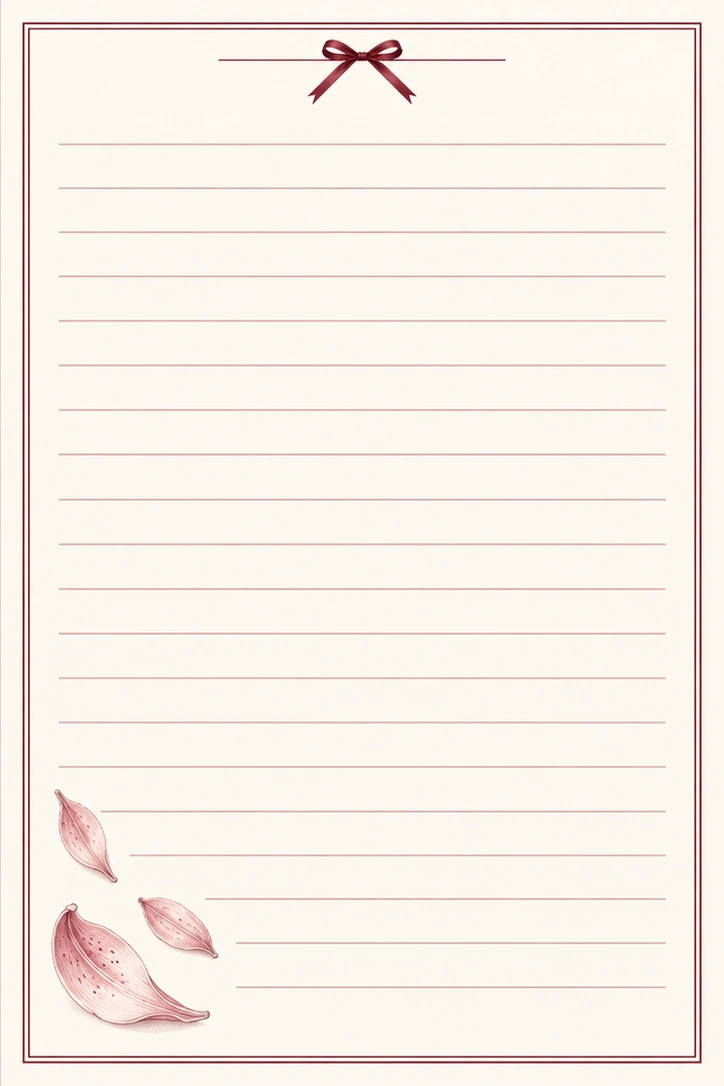
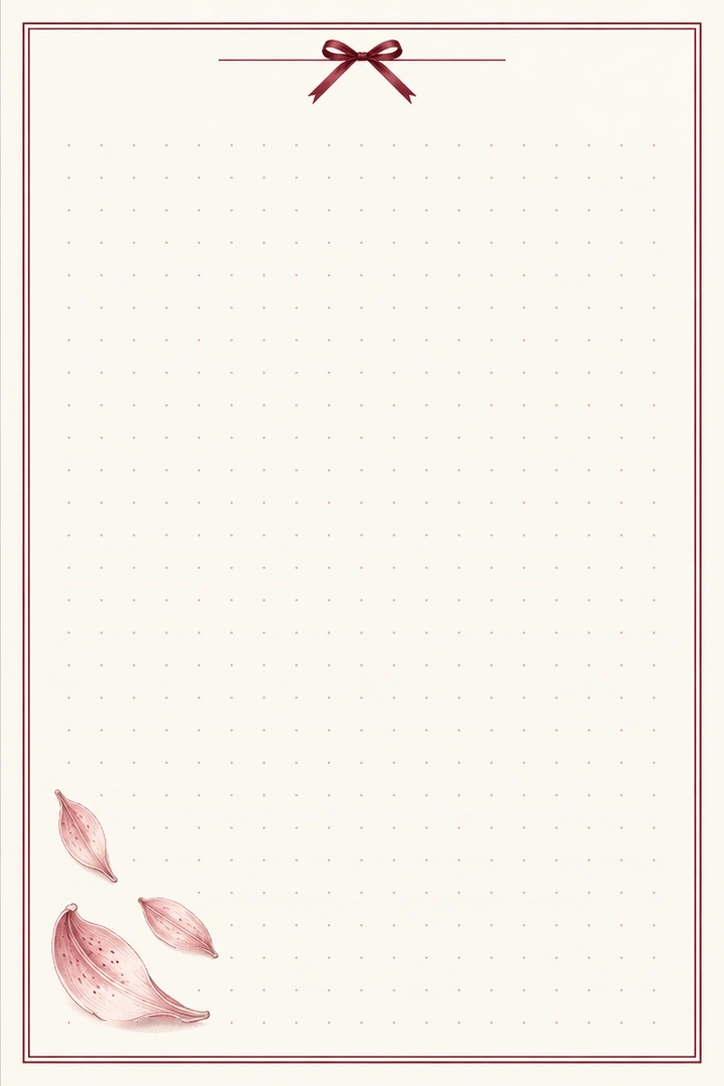
Sticker book: no stray shadow beside the cover while it opens, eased page turns, dotted paper in every notebook; calendar: a sticker paints its day in the sticker's colour, 'Güne not al' at the top of the day page, recently used stickers one tap away (preview, not released)

diff --git a/js/takvim-ui.js b/js/takvim-ui.js
@@ -2,7 +2,8 @@
    özel günler ve sınavlar, o günkü çalışma, sticker ve gün rengi, deneme planı, o günün planı (Planlarım ile aynı liste)
    ve geçmiş bir güne çalışma ekleme.
    Notlar D().dayNotes: {id, date: YYYY-AA-GG, text, emoji, yearly, remind, created, updated}.
-   Süsler D().dayDecor: {id: 'dc-' + tarih, date, stickers: [en çok 3], tint, updated}.
+   Süsler D().dayDecor: {id: 'dc-' + tarih, date, stickers: [en çok 3], tint, oto, updated}. Sticker yapıştırılınca gün onun rengine
+   boyanır (oto: true); rengi elle seçtiysen (oto: false) dokunulmaz.
    Planlanan denemeler D().denemePlan: Deneme sekmesinde de görünür; sonuç girilince gerçek denemeye dönüşüp analize katılır.
    Not günü gelince sayfanın üstünde yazar, Luna da bir kez söyler; "bir gün önce haber ver" açıksa (ve denemelerde her zaman) bir gün önceden de. */
 
@@ -76,6 +77,25 @@ const TakvimUI = (() => {
     if (!x) { x = { id: 'dc-' + k, date: k, stickers: [], tint: '', updated: 0 }; decorList().push(x); }
     return x;
   }
+  // gün, üstündeki ilk renkli stickerın rengine boyanır; rengi sen seçtiysen (ya da bu özellikten önce seçtiysen) o kalır
+  function autoTint(d) {
+    if (d.oto === false || (d.oto !== true && d.tint)) return;
+    const t = (SD() && d.stickers.map((x) => SD().tint(x)).find(Boolean)) || '';
+    d.tint = t;
+    if (t) d.oto = true; else delete d.oto;
+  }
+  // görünen gün rengi: kayıtlı renk; yoksa (elle "Renksiz" seçilmediyse) ilk renkli stickerın rengi
+  const tintOf = (d) => (!d ? '' : d.tint || (d.oto !== false && SD() && d.stickers.map((x) => SD().tint(x)).find(Boolean)) || '');
+  // son yapıştırdığın stickerlar (en yeni önce): defteri açmadan tek dokunuşla yapıştırmak için
+  function recentStickers(k) {
+    const on = new Set(decorOn(k) ? decorOn(k).stickers : []), out = [];
+    if (!SD()) return out;
+    for (const x of decorList().slice().sort((a, b) => (b.updated || 0) - (a.updated || 0))) {
+      for (const st of x.stickers) if (SD().isImg(st) && SD().known(st) && !on.has(st) && !out.includes(st)) out.push(st);
+      if (out.length >= 6) break;
+    }
+    return out.slice(0, 6);
+  }
   const deneme = () => !programMode() && !!window.Deneme && !!window.DenemeUI;
   // Üniversite modu (ileride): burası vize / final / proje olacak; şimdilik deneme yalnızca YKS modunda (bkz. NOTLAR.md)
   const plansOn = (k) => (deneme() ? (D().denemePlan || []).filter((x) => x && x.date === k) : []);
@@ -103,7 +123,7 @@ const TakvimUI = (() => {
     for (let d = 1; d <= days; d++) {
       const k = key(new Date(y, m, d, 12)), dow = (pad + d - 1) % 7, marks = marksOf(k), dc = decorOn(k);
       const lv = k <= today ? level(mins[k] || 0) : '', plan = planOn(k).length, st = dc ? dc.stickers : [];
-      const cls = ['tk-cell', k === today ? 'today' : '', k === sel ? 'sel' : '', dow >= 5 ? 'we' : '', dc && dc.tint ? 't-' + dc.tint : ''].join(' ');
+      const tn = tintOf(dc), cls = ['tk-cell', k === today ? 'today' : '', k === sel ? 'sel' : '', dow >= 5 ? 'we' : '', tn ? 't-' + tn : ''].join(' ');
       const label = [longDate(k), ...marks.map((x) => x.text), mins[k] ? U.fmtMin(mins[k]) + ' çalışma' : '', plan ? plan + ' plan maddesi' : ''].filter(Boolean).join(', ');
       html += `<button type="button" class="${cls}" data-day="${k}" aria-label="${esc(label)}" aria-pressed="${k === sel}">
         ${st[0] ? stHtml(st[0], 'tk-st') : ''}${st[1] ? stHtml(st[1], 'tk-st s2') : ''}
@@ -152,13 +172,15 @@ const TakvimUI = (() => {
       ? `<li class="tk-pl moved"><span>↪</span><span class="tk-pl-t">${esc(it.title)}</span><small>taşındı</small></li>`
       : `<li class="tk-pl${it.done ? ' done' : ''}"><label><input type="checkbox" data-pdone="${esc(it.id)}" ${it.done ? 'checked' : ''}><span class="tk-pl-t">${esc(it.title)}</span></label>
           <button type="button" class="tk-del" data-pdel="${esc(it.id)}" aria-label="${esc(it.title)} maddesini sil">✕</button></li>`).join('');
-    const editing = !!form.id, dc = decorOn(k), stuck = dc ? dc.stickers : [], tint = dc ? dc.tint : '';
+    const editing = !!form.id, dc = decorOn(k), stuck = dc ? dc.stickers : [], tint = tintOf(dc), recent = recentStickers(k);
     const decorHtml = `<section class="tk-sec tk-decor" aria-label="Sticker ve gün rengi">
         <h3>🌈 Sticker ve renk ${stuck.length ? `<small>${stuck.length}/3</small>` : ''}</h3>
         <div class="tk-stuck">${[0, 1, 2].map((i) => stuck[i]
           ? `<button type="button" data-unstick="${i}" aria-label="${esc(stName(stuck[i]))} stickerını kaldır">${stHtml(stuck[i], 'tk-stuck-i')}<i aria-hidden="true">✕</i></button>`
           : `<button type="button" class="empty" data-book aria-label="Boş yer: sticker defterini aç"><span aria-hidden="true">＋</span></button>`).join('')}
           ${SD() ? `<button type="button" class="tk-book-btn" data-book aria-label="Sticker defterini aç"><span class="tk-book-ic" aria-hidden="true"></span><small>Sticker defteri</small></button>` : ''}</div>
+        ${recent.length && stuck.length < 3 ? `<div class="tk-son"><small>Son kullandıkların</small><div>${recent.map((x) => `<button type="button" data-stick="${esc(x)}" aria-label="Bu stickerı güne yapıştır">${stHtml(x, 'tk-son-i')}</button>`).join('')}</div></div>` : ''}
+        ${stuck.length ? '' : '<p class="tk-hint">Bir sticker yapıştır, gün onun rengine boyansın ✨</p>'}
         <div class="tk-tints" role="radiogroup" aria-label="Gün rengi">${TINTS.map(([v, n]) => `<button type="button" role="radio" class="tint-${v || 'yok'}" data-tint="${v}" aria-checked="${v === tint}" aria-label="${n}" title="${n}"></button>`).join('')}</div>
       </section>`;
     const pl = plansOn(k), dn = doneOn(k);
@@ -176,7 +198,18 @@ const TakvimUI = (() => {
         </form>
       </section>`;
     root.innerHTML = `<div class="tk-d-head"><h2>${longDate(k)}</h2><span>${rel(k)}</span></div>
-      ${rows ? `<ul class="tk-evs">${rows}</ul>` : '<p class="tk-empty">Bu günün henüz notu yok. Aşağıdan ekleyebilirsin 🌸</p>'}
+      ${rows ? `<ul class="tk-evs">${rows}</ul>` : ''}
+      <form class="tk-sec tk-note-form${editing ? ' editing' : ''}" data-form="note" autocomplete="off">
+        <h3>${editing ? '✎ Notu düzenle' : '📝 Güne not al'}</h3>
+        <div class="tk-add-row">
+          <input id="tk-text" maxlength="60" placeholder="Doğum günüm, sınav, buluşma…" value="${esc(form.text)}" aria-label="Not">
+          <button class="btn primary" type="submit">${editing ? 'Kaydet' : 'Ekle'}</button>
+        </div>
+        <div class="tk-emojis" role="radiogroup" aria-label="Not simgesi">${EMOJI.map((e) => `<button type="button" role="radio" data-emoji="${e}" aria-checked="${e === form.emoji}">${e}</button>`).join('')}</div>
+        <label class="tk-check"><input type="checkbox" data-opt="yearly" ${form.yearly ? 'checked' : ''}> Her yıl tekrarla (doğum günü gibi)</label>
+        <label class="tk-check"><input type="checkbox" data-opt="remind" ${form.remind ? 'checked' : ''}> Bir gün önce Luna haber versin</label>
+        ${editing ? '<button type="button" class="tk-back" data-cancel>Vazgeç</button>' : ''}
+      </form>
       ${facts.length ? `<ul class="tk-facts">${facts.map((f) => `<li>${f}</li>`).join('')}</ul>` : ''}
       ${decorHtml}
       ${dnHtml}
@@ -188,17 +221,6 @@ const TakvimUI = (() => {
           <button class="btn soft" type="submit">Ekle</button>
         </form>
       </section>
-      <form class="tk-sec tk-note-form${editing ? ' editing' : ''}" data-form="note" autocomplete="off">
-        <h3>${editing ? '✎ Notu düzenle' : '💌 Bu güne not ekle'}</h3>
-        <div class="tk-add-row">
-          <input id="tk-text" maxlength="60" placeholder="Doğum günüm, sınav, buluşma…" value="${esc(form.text)}" aria-label="Not">
-          <button class="btn primary" type="submit">${editing ? 'Kaydet' : 'Ekle'}</button>
-        </div>
-        <div class="tk-emojis" role="radiogroup" aria-label="Not simgesi">${EMOJI.map((e) => `<button type="button" role="radio" data-emoji="${e}" aria-checked="${e === form.emoji}">${e}</button>`).join('')}</div>
-        <label class="tk-check"><input type="checkbox" data-opt="yearly" ${form.yearly ? 'checked' : ''}> Her yıl tekrarla (doğum günü gibi)</label>
-        <label class="tk-check"><input type="checkbox" data-opt="remind" ${form.remind ? 'checked' : ''}> Bir gün önce Luna haber versin</label>
-        ${editing ? '<button type="button" class="tk-back" data-cancel>Vazgeç</button>' : ''}
-      </form>
       ${k <= today ? '<button type="button" class="btn soft wide" data-session>＋ Bu güne çalışma ekle</button>' : ''}`;
   }
 
@@ -229,11 +251,17 @@ const TakvimUI = (() => {
     renderSoon(today);
   }
   function pick(k, scroll) {
-    if (sel !== k) form = blank();
+    const changed = sel !== k;
+    if (changed) form = blank();
     sel = k;
     view = new Date(at(k).getFullYear(), at(k).getMonth(), 1, 12);
     render();
     const day = $('#takvim-gun');
+    // yeni günün sayfası sağdan süzülerek gelir (hareket azaltılmışsa hemen)
+    if (changed && day && !matchMedia('(prefers-reduced-motion: reduce)').matches) {
+      day.classList.remove('gel'); void day.offsetWidth; day.classList.add('gel');
+      day.addEventListener('animationend', () => day.classList.remove('gel'), { once: true });
+    }
     if (scroll && day && day.getBoundingClientRect().top > window.innerHeight - 140) day.scrollIntoView({ behavior: matchMedia('(prefers-reduced-motion: reduce)').matches ? 'auto' : 'smooth', block: 'start' });
   }
 
@@ -287,9 +315,9 @@ const TakvimUI = (() => {
       if (stick) { stickOn(stick.dataset.stick); return; }
       if (t.closest('[data-book]')) { openBook(); return; }
       const un = t.closest('[data-unstick]');
-      if (un) { const x = decor(sel); x.stickers.splice(+un.dataset.unstick, 1); x.updated = Date.now(); app.save(); render(); return; }
+      if (un) { const x = decor(sel); x.stickers.splice(+un.dataset.unstick, 1); autoTint(x); x.updated = Date.now(); app.save(); render(); return; }
       const tn = t.closest('[data-tint]');
-      if (tn) { const x = decor(sel); x.tint = tn.dataset.tint; x.updated = Date.now(); app.save(); render(); return; }
+      if (tn) { const x = decor(sel); x.tint = tn.dataset.tint; x.oto = false; x.updated = Date.now(); app.save(); render(); return; }
       // deneme planı
       const dt = t.closest('[data-dtype]');
       if (dt) { const i = $('#tk-dname'); if (i) dnDraft = i.value; dnType = dt.dataset.dtype; render(); return; }
@@ -364,7 +392,7 @@ const TakvimUI = (() => {
   function stickOn(x) {
     const d = decor(sel);
     if (d.stickers.length >= 3) { app.toast('🌈', 'Bir güne en fazla 3 sticker', 'Kaldırmak için üstteki stickera dokun'); return false; }
-    d.stickers.push(x); d.updated = Date.now();
+    d.stickers.push(x); autoTint(d); d.updated = Date.now();
     app.save(); render(); popSticker();
     return true;
   }
@@ -450,7 +478,7 @@ const TakvimUI = (() => {
       const b = t.closest('[data-bk]');
       if (b) { if (b.dataset.bk === 'close') { app.closeModal(); book = null; } else turn(b.dataset.bk === 'next' ? 1 : -1); return; }
       const un = t.closest('[data-bk-un]');
-      if (un) { const d = decor(sel); d.stickers.splice(+un.dataset.bkUn, 1); d.updated = Date.now(); app.save(); render(); bookSync(); return; }
+      if (un) { const d = decor(sel); d.stickers.splice(+un.dataset.bkUn, 1); autoTint(d); d.updated = Date.now(); app.save(); render(); bookSync(); return; }
       const pk = t.closest('[data-pick]');
       if (pk) {
         if (swiped) { swiped = false; return; } // kaydırma dokunuş sayılmasın
@@ -468,14 +496,14 @@ const TakvimUI = (() => {
   // Sayfalar yalnızca alttaki oklarla (bilgisayarda klavye oklarıyla da) çevrilir: sürükleme, kaydırma ve köşe kıvırma kapalı.
   // Her zaman iki sayfa yan yana; dik telefonda sayfa daralınca stickerlar küçülmesin diye sayfa başına 2 × 3 dizilir.
   // Kapak ve kâğıt Hazal'ın tasarımları (assets/defter/<ad>/). Kütüphane yüklenemezse (ilk açılış internetsiz) basit defter açılır.
-  const FLIP_SRC = 'vendor/page-flip-2.0.7/page-flip.browser.js', FLIP_MS = 780, DAR = 230;
+  const FLIP_SRC = 'vendor/page-flip-2.0.7/page-flip.browser.js', FLIP_MS = 900, DAR = 230;
   // alan: stickerların süslere binmediği bölge (yüzde: üst, sağ, alt, sol); yazi: başlık rengi; sahne, isik, vurgu: Lilium renkleri
   const DEFTERLER = {
     'leylak-inci': { ad: 'İnci Düşü', kagit: 'Noktalı', yazi: '#7a67a3', alan: [11, 8, 20, 8], sahne: '#ddd9e5', isik: '#f6efff', vurgu: '#9d8daf' },
-    'siyah-yildizli': { ad: 'Ay Işığı', kagit: 'Çizgili', yazi: '#4a4658', alan: [10, 8, 21, 8], sahne: '#d6d8d2', isik: '#edf0df', vurgu: '#a9ad9b' },
-    'pembe-kurdele': { ad: 'Gül Kurusu', kagit: 'Çizgili', yazi: '#8e2e3e', alan: [10, 9, 26, 9], sahne: '#e5d6d1', isik: '#ffede4', vurgu: '#9d5e66' },
-    'krem-botanik': { ad: 'Saklı Bahçe', kagit: 'Çizgili', yazi: '#6c7a4c', alan: [15, 10, 14, 10], sahne: '#dde0d2', isik: '#f7f0d8', vurgu: '#8b997b' },
-    'mavi-kelebek': { ad: 'Mavi Rüya', kagit: 'Kareli', yazi: '#46699a', alan: [11, 9, 13, 9], sahne: '#d7e2e8', isik: '#effaff', vurgu: '#769aac' },
+    'siyah-yildizli': { ad: 'Ay Işığı', kagit: 'Noktalı', yazi: '#4a4658', alan: [10, 8, 25, 8], sahne: '#d6d8d2', isik: '#edf0df', vurgu: '#a9ad9b' },
+    'pembe-kurdele': { ad: 'Gül Kurusu', kagit: 'Noktalı', yazi: '#8e2e3e', alan: [10, 9, 26, 9], sahne: '#e5d6d1', isik: '#ffede4', vurgu: '#9d5e66' },
+    'krem-botanik': { ad: 'Saklı Bahçe', kagit: 'Noktalı', yazi: '#6c7a4c', alan: [15, 10, 14, 10], sahne: '#dde0d2', isik: '#f7f0d8', vurgu: '#8b997b' },
+    'mavi-kelebek': { ad: 'Mavi Rüya', kagit: 'Noktalı', yazi: '#46699a', alan: [11, 9, 13, 9], sahne: '#d7e2e8', isik: '#effaff', vurgu: '#769aac' },
   };
   // seçilmediyse sitenin temasına uyan defter: Lavanta → İnci Düşü, Gece ve Zambak → Ay Işığı
   function defterId() {
@@ -539,6 +567,30 @@ const TakvimUI = (() => {
     return p ? p.items[0] : 0;
   }
   const abs = (u) => new URL(u, location.href).href; // css değişkenindeki url() stil dosyasına göre çözülmesin
+  // css'teki cubic-bezier gibi: x geçen zaman, sonuç alınan yol
+  function bezier(x1, y1, x2, y2) {
+    const f = (a, b, t) => 3 * a * t * (1 - t) * (1 - t) + 3 * b * t * t * (1 - t) + t * t * t;
+    return (x) => {
+      let lo = 0, hi = 1, t = x;
+      for (let i = 0; i < 24; i++) { const v = f(x1, x2, t); if (Math.abs(v - x) < 1e-4) break; if (v < x) lo = t; else hi = t; t = (lo + hi) / 2; }
+      return f(y1, y2, t);
+    };
+  }
+  const SAYFA_EGRI = bezier(0.4, 0.1, 0.2, 1);
+  // Kütüphane sayfayı baştan sona aynı hızla çevirip birden durdurur. Kareleri bu eğriye göre yeniden sıralarız:
+  // sayfa yumuşak kalkar, ortada hızlanır, yere yavaşça iner (süre ve kare sayısı aynı kalır).
+  function smooth(pf) {
+    const r = pf.getRender();
+    if (!r || typeof r.startAnimation !== 'function') return;
+    const start = r.startAnimation.bind(r);
+    r.startAnimation = (frames, duration, done) => {
+      const n = frames.length;
+      if (n < 3 || calm()) return start(frames, duration, done);
+      const eased = [];
+      for (let k = 0; k < n; k++) eased.push(frames[Math.round(SAYFA_EGRI(k / (n - 1)) * (n - 1))]);
+      return start(eased, duration, done);
+    };
+  }
   function buildFlip(anchor) {
     const id = defterId(), d = DEFTERLER[id];
     stopSync();
@@ -572,6 +624,7 @@ const TakvimUI = (() => {
       // sayfa itilmez, sürüklenmez, köşesi kıvrılmaz: yalnızca oklar
       useMouseEvents: false, showPageCorners: false, disableFlipByClick: true, mobileScrollSupport: false,
     });
+    smooth(flip);
     flip.loadFromHTML(leaves);
     flip.on('flip', (e) => place(e.data));
     flip.on('changeState', (e) => { if (e.data === 'read') place(flip.getCurrentPageIndex()); });
@@ -582,6 +635,8 @@ const TakvimUI = (() => {
     stopSync();
     if (!scene || !flip) return;
     const n = flip.getPageCount(), kitap = scene.querySelector('.df-kitap');
+    const el = kitap.querySelector('.df-flip');
+    if (el) el.classList.remove('kapak-on', 'kapak-arka');
     if (instant) kitap.style.transition = 'none';
     kitap.style.transform = '';
     kitap.dataset.position = i <= 0 ? 'front' : i >= n - 1 ? 'back' : 'open';
@@ -619,6 +674,8 @@ const TakvimUI = (() => {
     const i = flip.getCurrentPageIndex(), n = flip.getPageCount();
     if (dir > 0 ? i >= n - 1 : i <= 0) return;
     syncSide = dir > 0 ? (i === 0 ? 'front' : i >= n - 3 ? 'back' : '') : (i >= n - 1 ? 'back' : i <= 2 ? 'front' : '');
+    // kapak dönerken kütüphane gölgeyi defterin boş tarafına da çizer (arkadan gri bir şey çıkıyor gibi); o gölge gizlenir
+    if (syncSide) scene.querySelector('.df-flip').classList.add(syncSide === 'back' ? 'kapak-arka' : 'kapak-on');
     if (syncSide && !calm()) { stopSync(); syncAt = performance.now(); syncRaf = requestAnimationFrame(syncShift); }
     if (dir > 0) flip.flipNext('bottom'); else flip.flipPrev('bottom');
   }
@@ -718,7 +775,7 @@ const TakvimUI = (() => {
         return;
       }
       const un = t.closest('[data-bk-un]');
-      if (un) { const d = decor(sel); d.stickers.splice(+un.dataset.bkUn, 1); d.updated = Date.now(); app.save(); render(); sceneSync(); return; }
+      if (un) { const d = decor(sel); d.stickers.splice(+un.dataset.bkUn, 1); autoTint(d); d.updated = Date.now(); app.save(); render(); sceneSync(); return; }
       const pk = t.closest('[data-pick]');
       if (pk && stickOn(pk.dataset.pick)) {
         sceneSync();

diff --git a/js/stickers.js b/js/stickers.js
@@ -1,18 +1,19 @@
 /* Sticker defteri: sayfa sayfa stickerlar. Benzer stickerlar aynı bölümde; bölüm 12'den uzunsa birkaç sayfaya bölünür.
    Görsel stickerlar assets/stickers/<paket>/<ad>.webp (saydam, beyaz kesim kenarlı); güne 'i:<paket>/<ad>' diye yazılır
-   (eski emoji stickerlar da olduğu gibi gösterilir). Yeni paket: scripts/sticker-kes.py ile kes, aşağıya bölüm olarak ekle (bkz. NOTLAR.md). */
+   (eski emoji stickerlar da olduğu gibi gösterilir). Yeni paket: scripts/sticker-kes.py ile kes, aşağıya bölüm olarak ekle (bkz. NOTLAR.md).
+   renk: her stickerın baskın rengi, sırayla bir harf (p pembe, s şeftali, l limon, n nane, g gök mavisi, v lila); yapıştırılınca gün bu renge boyanır. */
 
 const StickerDefter = (() => {
   const BOLUMLER = [
-    { id: 'retro', title: 'Retro ve mektuplar', icon: '💌', pack: 'p1', items: ['s01-01', 's01-02', 's01-03', 's01-04', 's01-05', 's01-06', 's01-07', 's01-08', 's01-09', 's01-10', 's01-11', 's01-12', 's01-13', 's01-14', 's01-15', 's01-16', 's01-17', 's01-18', 's01-19', 's01-20', 's01-21', 's08-01', 's08-03', 's08-05', 's08-09', 's08-24', 's07-01', 's07-04', 's07-12'] },
-    { id: 'kedi', title: 'Kediler', icon: '🐱', pack: 'p1', items: ['s02-01', 's02-02', 's02-03', 's02-04', 's02-05', 's02-06', 's02-07', 's02-08', 's02-09', 's03-36', 's03-22', 's05-28', 's07-08', 's08-32', 's08-02'] },
-    { id: 'altin', title: 'Altın gökyüzü', icon: '✨', pack: 'p1', items: ['s04-01', 's04-02', 's04-03', 's04-04', 's04-05', 's04-06', 's04-07', 's04-08', 's04-09', 's04-10', 's04-11', 's04-15', 's04-16', 's04-17', 's04-18', 's04-19', 's04-20', 's04-21', 's04-22', 's04-24', 's04-25', 's04-26', 's04-27', 's04-29', 's04-30', 's04-31', 's04-32'] },
-    { id: 'deniz', title: 'Deniz', icon: '🌊', pack: 'p1', items: ['s06-01', 's06-02', 's06-03', 's06-04', 's06-06', 's06-07', 's06-08', 's06-09', 's06-10', 's06-11', 's06-12', 's06-13', 's06-14', 's06-15', 's06-16', 's06-17', 's06-18', 's06-19', 's06-20', 's06-21', 's06-22', 's06-23', 's06-24', 's06-25', 's06-26', 's06-27', 's06-28', 's06-29', 's06-30', 's06-31', 's06-34', 's06-36', 's06-37', 's06-38', 's06-41', 's06-42'] },
-    { id: 'yaz', title: 'Yaz ve limon', icon: '🍋', pack: 'p1', items: ['s09-05', 's09-12', 's09-13', 's09-18', 's09-25', 's09-43', 's09-50', 's09-53', 's09-51', 's09-19', 's09-09', 's09-17', 's09-24', 's09-26', 's09-49', 's09-58', 's09-33', 's09-34', 's09-35', 's09-52', 's09-38', 's09-02', 's09-11', 's09-55', 's09-10', 's09-03', 's09-14', 's09-15', 's09-28', 's09-29', 's09-45', 's09-57', 's09-41', 's09-56', 's09-06', 's09-07', 's09-22'] },
-    { id: 'tatli', title: 'Tatlılar ve yiyecekler', icon: '🧁', pack: 'p1', items: ['s08-27', 's08-06', 's08-30', 's08-10', 's08-12', 's08-11', 's08-17', 's08-31', 's08-20', 's08-21', 's08-33', 's08-13', 's08-22', 's08-25', 's08-04', 's08-23', 's08-16', 's08-26', 's07-09', 's07-11', 's07-07', 's07-13', 's07-15', 's03-03'] },
-    { id: 'cicek', title: 'Çiçekler ve bitkiler', icon: '🌷', pack: 'p1', items: ['s07-10', 's07-06', 's07-14', 's07-02', 's05-11', 's05-14', 's05-26', 's05-20', 's05-21', 's03-24', 's03-32', 's03-17', 's03-27', 's03-28', 's03-29', 's03-15', 's03-38'] },
-    { id: 'cay', title: 'Çay saati', icon: '🫖', pack: 'p1', items: ['s05-03', 's05-19', 's05-04', 's05-08', 's05-06', 's05-18', 's05-24', 's05-32', 's05-31'] },
-    { id: 'ev', title: 'Sıcacık ev', icon: '🏡', pack: 'p1', items: ['s03-12', 's03-01', 's03-02', 's03-10', 's03-14', 's03-09', 's03-25', 's03-04', 's03-11', 's03-31', 's03-21', 's03-20', 's03-18', 's03-33', 's03-34', 's03-23', 's03-35', 's03-16', 's03-13', 's03-37', 's03-39', 's07-05'] },
+    { id: 'retro', title: 'Retro ve mektuplar', icon: '💌', pack: 'p1', items: ['s01-01', 's01-02', 's01-03', 's01-04', 's01-05', 's01-06', 's01-07', 's01-08', 's01-09', 's01-10', 's01-11', 's01-12', 's01-13', 's01-14', 's01-15', 's01-16', 's01-17', 's01-18', 's01-19', 's01-20', 's01-21', 's08-01', 's08-03', 's08-05', 's08-09', 's08-24', 's07-01', 's07-04', 's07-12'], renk: 'pngppsnnpsspgpvnsspspsllsssss' },
+    { id: 'kedi', title: 'Kediler', icon: '🐱', pack: 'p1', items: ['s02-01', 's02-02', 's02-03', 's02-04', 's02-05', 's02-06', 's02-07', 's02-08', 's02-09', 's03-36', 's03-22', 's05-28', 's07-08', 's08-32', 's08-02'], renk: 'glpsgpplnppsnsg' },
+    { id: 'altin', title: 'Altın gökyüzü', icon: '✨', pack: 'p1', items: ['s04-01', 's04-02', 's04-03', 's04-04', 's04-05', 's04-06', 's04-07', 's04-08', 's04-09', 's04-10', 's04-11', 's04-15', 's04-16', 's04-17', 's04-18', 's04-19', 's04-20', 's04-21', 's04-22', 's04-24', 's04-25', 's04-26', 's04-27', 's04-29', 's04-30', 's04-31', 's04-32'], renk: 'lsssgpggsssllssssssssssslls' },
+    { id: 'deniz', title: 'Deniz', icon: '🌊', pack: 'p1', items: ['s06-01', 's06-02', 's06-03', 's06-04', 's06-06', 's06-07', 's06-08', 's06-09', 's06-10', 's06-11', 's06-12', 's06-13', 's06-14', 's06-15', 's06-16', 's06-17', 's06-18', 's06-19', 's06-20', 's06-21', 's06-22', 's06-23', 's06-24', 's06-25', 's06-26', 's06-27', 's06-28', 's06-29', 's06-30', 's06-31', 's06-34', 's06-36', 's06-37', 's06-38', 's06-41', 's06-42'], renk: 'ssgggsgsggsgssgpgssglsggsgsssgsgssgg' },
+    { id: 'yaz', title: 'Yaz ve limon', icon: '🍋', pack: 'p1', items: ['s09-05', 's09-12', 's09-13', 's09-18', 's09-25', 's09-43', 's09-50', 's09-53', 's09-51', 's09-19', 's09-09', 's09-17', 's09-24', 's09-26', 's09-49', 's09-58', 's09-33', 's09-34', 's09-35', 's09-52', 's09-38', 's09-02', 's09-11', 's09-55', 's09-10', 's09-03', 's09-14', 's09-15', 's09-28', 's09-29', 's09-45', 's09-57', 's09-41', 's09-56', 's09-06', 's09-07', 's09-22'], renk: 'llllllllllggsglgggggggggggglgggglglll' },
+    { id: 'tatli', title: 'Tatlılar ve yiyecekler', icon: '🧁', pack: 'p1', items: ['s08-27', 's08-06', 's08-30', 's08-10', 's08-12', 's08-11', 's08-17', 's08-31', 's08-20', 's08-21', 's08-33', 's08-13', 's08-22', 's08-25', 's08-04', 's08-23', 's08-16', 's08-26', 's07-09', 's07-11', 's07-07', 's07-13', 's07-15', 's03-03'], renk: 'pggpssssssspppsssnpsssll' },
+    { id: 'cicek', title: 'Çiçekler ve bitkiler', icon: '🌷', pack: 'p1', items: ['s07-10', 's07-06', 's07-14', 's07-02', 's05-11', 's05-14', 's05-26', 's05-20', 's05-21', 's03-24', 's03-32', 's03-17', 's03-27', 's03-28', 's03-29', 's03-15', 's03-38'], renk: 'nssspppggsslnnlnl' },
+    { id: 'cay', title: 'Çay saati', icon: '🫖', pack: 'p1', items: ['s05-03', 's05-19', 's05-04', 's05-08', 's05-06', 's05-18', 's05-24', 's05-32', 's05-31'], renk: 'llpssssnp' },
+    { id: 'ev', title: 'Sıcacık ev', icon: '🏡', pack: 'p1', items: ['s03-12', 's03-01', 's03-02', 's03-10', 's03-14', 's03-09', 's03-25', 's03-04', 's03-11', 's03-31', 's03-21', 's03-20', 's03-18', 's03-33', 's03-34', 's03-23', 's03-35', 's03-16', 's03-13', 's03-37', 's03-39', 's07-05'], renk: 'snsggpnlsssgllsspgspss' },
   ];
   const PER_PAGE = 12; // defter sayfası 3 × 4
   const isImg = (s) => typeof s === 'string' && s.startsWith('i:');
@@ -25,12 +26,14 @@ const StickerDefter = (() => {
     for (let i = 0; i < parts; i++) PAGES.push({ bolum: b.id, title: b.title, icon: b.icon, items: items.slice(i * PER_PAGE, (i + 1) * PER_PAGE), part: i + 1, parts });
   }
   const KNOWN = new Set(PAGES.flatMap((p) => p.items));
+  const RENK_AD = { p: 'pembe', s: 'seftali', l: 'limon', n: 'nane', g: 'gok', v: 'lila' }, RENK = new Map();
+  for (const b of BOLUMLER) all(b).forEach((x, i) => { const r = RENK_AD[(b.renk || '')[i]]; if (r) RENK.set(x, r); });
   // takvim hücresi ve defter için tek biçim (görsel tembel yüklenir; bozuk dosya sessizce gizlenir)
   function html(s, cls = '') {
     if (isImg(s)) return `<img class="${cls}" src="${src(s)}" alt="" loading="lazy" decoding="async" onerror="this.style.visibility='hidden'">`;
     return `<span class="${cls}">${U.esc(s)}</span>`;
   }
-  return { BOLUMLER, PAGES, isImg, src, html, known: (s) => KNOWN.has(s) };
+  return { BOLUMLER, PAGES, isImg, src, html, known: (s) => KNOWN.has(s), tint: (s) => RENK.get(s) || '' };
 })();
 
 if (typeof window !== 'undefined') { window.StickerDefter = StickerDefter; }

diff --git a/css/style.css b/css/style.css
@@ -2230,13 +2230,15 @@ body.siir-acik { overflow: hidden; }
 .tk-cell.today .tk-n { background: var(--pink); color: #fff; box-shadow: 0 0 0 3px var(--pink-soft), 0 0 12px rgba(242, 120, 159, .6); }
 .tk-cell.sel { box-shadow: inset 0 0 0 2px var(--pink); }
 .tk-cell.sel:not([class*=" t-"]) { background: var(--pink-soft); }
-/* gün rengi (yarı saydam: üç temada da yumuşak durur) */
-.tk-cell.t-pembe { background: rgba(255, 143, 190, .34); }
-.tk-cell.t-seftali { background: rgba(255, 168, 110, .34); }
-.tk-cell.t-limon { background: rgba(255, 214, 70, .36); }
-.tk-cell.t-nane { background: rgba(80, 210, 160, .30); }
-.tk-cell.t-gok { background: rgba(100, 175, 255, .30); }
-.tk-cell.t-lila { background: rgba(170, 130, 255, .32); }
+/* gün rengi (yarı saydam: üç temada da yumuşak durur). Stickerın durduğu sol alt köşeden yayılan bir ışık gibi boyanır. */
+.tk-cell.t-pembe { --tk-t: 255, 143, 190; }
+.tk-cell.t-seftali { --tk-t: 255, 168, 110; }
+.tk-cell.t-limon { --tk-t: 255, 214, 70; }
+.tk-cell.t-nane { --tk-t: 80, 210, 160; }
+.tk-cell.t-gok { --tk-t: 100, 175, 255; }
+.tk-cell.t-lila { --tk-t: 170, 130, 255; }
+.tk-cell[class*=" t-"] { background: radial-gradient(circle at 18% 88%, rgba(var(--tk-t), .62), rgba(var(--tk-t), .28) 75%); box-shadow: inset 0 0 0 1px rgba(var(--tk-t), .45); }
+.tk-cell.sel[class*=" t-"] { box-shadow: inset 0 0 0 2px var(--pink); }
 /* güne yapışan stickerlar */
 .tk-st { position: absolute; left: 1px; bottom: 0; font-size: 17px; line-height: 1; transform: rotate(-12deg); filter: drop-shadow(0 1px 1px rgba(30, 10, 40, .22)); pointer-events: none; }
 .tk-st.s2 { left: auto; bottom: auto; right: 0; top: 1px; font-size: 12px; transform: rotate(14deg); }
@@ -2326,9 +2328,27 @@ body.siir-acik { overflow: hidden; }
 .dp-text small { color: var(--muted); font-weight: 700; }
 @media (max-width: 360px) { .tk-cell { font-size: 12px; border-radius: 10px; } .tk-n { width: 21px; height: 21px; } .tk-month span { font-size: 22px; } .tk-st { font-size: 15px; } }
 @media (prefers-reduced-motion: reduce) { .tk-nav:active { transform: none; } .tk-st.pop { animation: none; } }
-/* görsel stickerlar (defterden) */
-img.tk-st { width: 21px; height: 21px; object-fit: contain; }
-img.tk-st.s2 { width: 15px; height: 15px; }
+/* görsel stickerlar (defterden): gün kutusunun boyuna göre büyür */
+img.tk-st { left: -2px; bottom: -2px; width: 54%; max-width: 62px; height: auto; aspect-ratio: 1; object-fit: contain; }
+img.tk-st.s2 { left: auto; bottom: auto; right: -2px; top: -2px; width: 36%; max-width: 40px; }
+/* "Güne not al": günün sayfasında en üstte, pembe kutu */
+.tk-note-form { background: var(--pink-soft); border-radius: 14px; padding: 12px; border-top: 0; }
+.takvim-gun.gel > * { animation: tk-gel .38s cubic-bezier(.2, .8, .3, 1) both; }
+.takvim-gun.gel > :nth-child(2) { animation-delay: .03s; }
+.takvim-gun.gel > :nth-child(3) { animation-delay: .06s; }
+.takvim-gun.gel > :nth-child(n+4) { animation-delay: .09s; }
+@keyframes tk-gel { from { opacity: 0; transform: translateX(18px); } to { opacity: 1; transform: none; } }
+/* son kullanılan stickerlar: tek dokunuşla güne */
+.tk-son { display: flex; align-items: center; gap: 10px; flex-wrap: wrap; }
+.tk-son > small { font-size: 12px; font-weight: 800; color: var(--muted); }
+.tk-son > div { display: flex; gap: 6px; flex-wrap: wrap; }
+.tk-son button { width: 40px; height: 40px; padding: 3px; border: 1px solid var(--line); border-radius: 12px; background: var(--surface-2); cursor: pointer; transition: transform .15s; }
+.tk-son button:nth-child(odd) { transform: rotate(-4deg); }
+.tk-son button:nth-child(even) { transform: rotate(3deg); }
+.tk-son button:active { transform: scale(.9); }
+.tk-son-i { display: block; width: 100%; height: 100%; object-fit: contain; }
+.tk-hint { margin: 0; font-size: 12px; font-weight: 700; color: var(--muted); }
+@media (prefers-reduced-motion: reduce) { .takvim-gun.gel > * { animation: none; } .tk-son button { transition: none; } }
 .tk-stuck-i { display: block; width: 36px; height: 36px; object-fit: contain; margin: auto; }
 span.tk-stuck-i { width: auto; height: auto; }
 .tk-stuck > button:nth-child(1) { transform: rotate(-6deg); }
@@ -2409,6 +2429,9 @@ span.bk-st { width: auto; height: auto; font-size: 26px; filter: none; }
 .df-flip { position: relative; filter: drop-shadow(0 25px 22px #22251c30); }
 .df-flip .stf__wrapper { height: 100%; }
 .df-flip .stf__block { perspective: 4200px; } /* sert kapak dönerken yakın kenarı fazla büyüyüp taşmasın */
+/* kapak dönerken defterin boş tarafına düşen gölge çizilmez: kapalı defterin yanında gri bir kutu belirmesin */
+.df-flip.kapak-on .stf__hardShadow[style*="rotateY(180deg)"], .df-flip.kapak-on .stf__hardInnerShadow[style*="rotateY(180deg)"],
+.df-flip.kapak-arka .stf__hardShadow:not([style*="rotateY(180deg)"]), .df-flip.kapak-arka .stf__hardInnerShadow:not([style*="rotateY(180deg)"]) { display: none !important; }
 /* sayfalar (Lilium): ince kenar, sırta doğru hafif gölge, dış kenarda ışık */
 .df-sayfa { overflow: hidden; background: #fcfaf6; border: 1px solid #b4b3a254; }
 .df-sayfa::after { content: ''; position: absolute; inset: 0; z-index: 3; pointer-events: none; background: linear-gradient(90deg, #1d231a15, transparent 7%, transparent 92%, #fff4); }

diff --git a/js/storage.js b/js/storage.js
@@ -136,7 +136,7 @@ const Store = (() => {
     files: [],      // depo: {id, src: drive|local, rid, name, mime, size, subjectId, kind, note, created}
     cards: [],      // bilgi kartları: {id, subjectId, front, back, box (1-5), due (YYYY-AA-GG), created}
     dayNotes: [],   // takvim notları: {id, date (YYYY-AA-GG), text, emoji, yearly, remind, created, updated}
-    dayDecor: [],   // takvim süsleri: {id: 'dc-YYYY-AA-GG', date, stickers: [en çok 3], tint (gün rengi), updated}
+    dayDecor: [],   // takvim süsleri: {id: 'dc-YYYY-AA-GG', date, stickers: [en çok 3], tint (gün rengi), oto (renk stickerdan mı), updated}
     denemePlan: [], // takvimden planlanan denemeler: {id, date, type: TYT|AYT|BRANS, name, created, updated}; sonuç girilince denemelere geçer
     plans: { day: {}, week: {}, month: {}, eod: {}, eodSeq: {} }, // Planlarım: Hazal'ın elle yazdığı planlar (gün / hafta / ay) ve gün sonu notları
     stats: { planItems: 0, planFull: 0, planFullDates: [], cardReviews: 0, friendsMet: false, seen: {} },
@@ -222,6 +222,7 @@ const Store = (() => {
       // emoji (kısa) ya da defterdeki görsel ('i:paket/ad')
       x.stickers = (Array.isArray(x.stickers) ? x.stickers : []).filter((s) => typeof s === 'string' && s && (s.length <= 8 || /^i:[a-z0-9]{1,12}\/[a-z0-9-]{1,30}$/.test(s))).slice(0, 3);
       if (!TINTS.includes(x.tint)) x.tint = '';
+      if (typeof x.oto !== 'boolean') delete x.oto; // gün rengi stickerdan mı geldi (true) yoksa elle mi seçildi (false)
       x.updated = +x.updated || 0;
     }
     out.denemePlan = out.denemePlan.filter((x) => isObj(x) && typeof x.date === 'string' && DAY.test(x.date));
